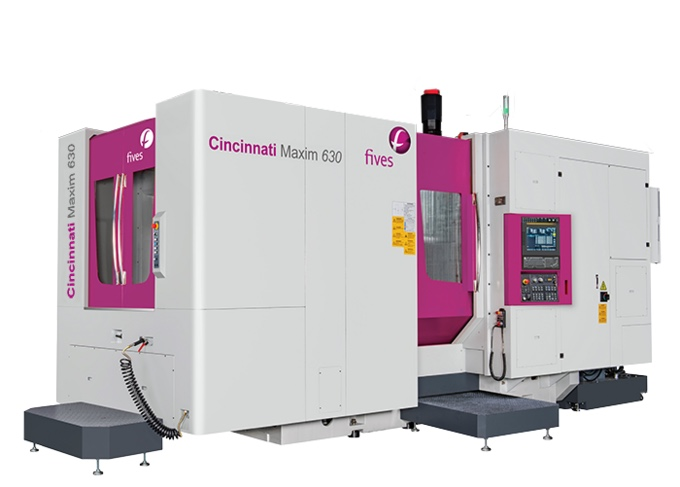
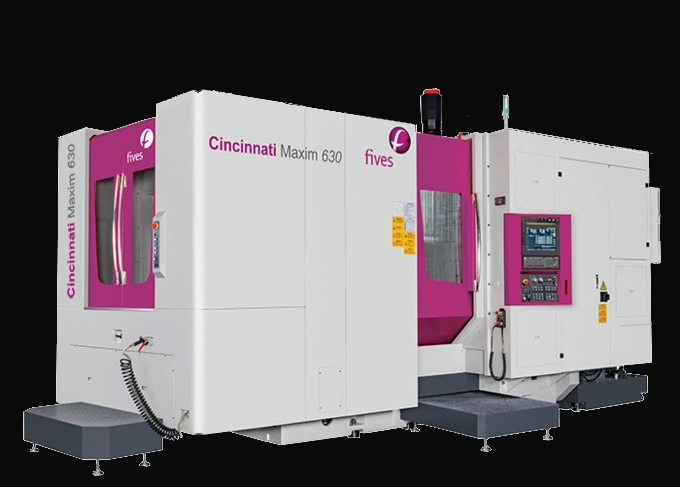
Revert Full-Spectrum sizing + replace white bg with site dark on About photo

diff --git a/style.css b/style.css
@@ -558,23 +558,6 @@ button { cursor: pointer; background: none; border: none; }
   background: rgba(8,8,8,0.2);
 }
 
-/* Shop floor (Fives Macbormill) - sized smaller within its panel */
-.split--shop .split-image {
-  background: var(--black);
-  display: flex;
-  align-items: center;
-  justify-content: center;
-  padding: clamp(20px, 4vw, 60px);
-}
-.split--shop .split-image img {
-  width: auto;
-  height: auto;
-  max-width: 85%;
-  max-height: 85%;
-  object-fit: contain;
-  position: relative;
-}
-
 .split-content {
   display: flex;
   flex-direction: column;
